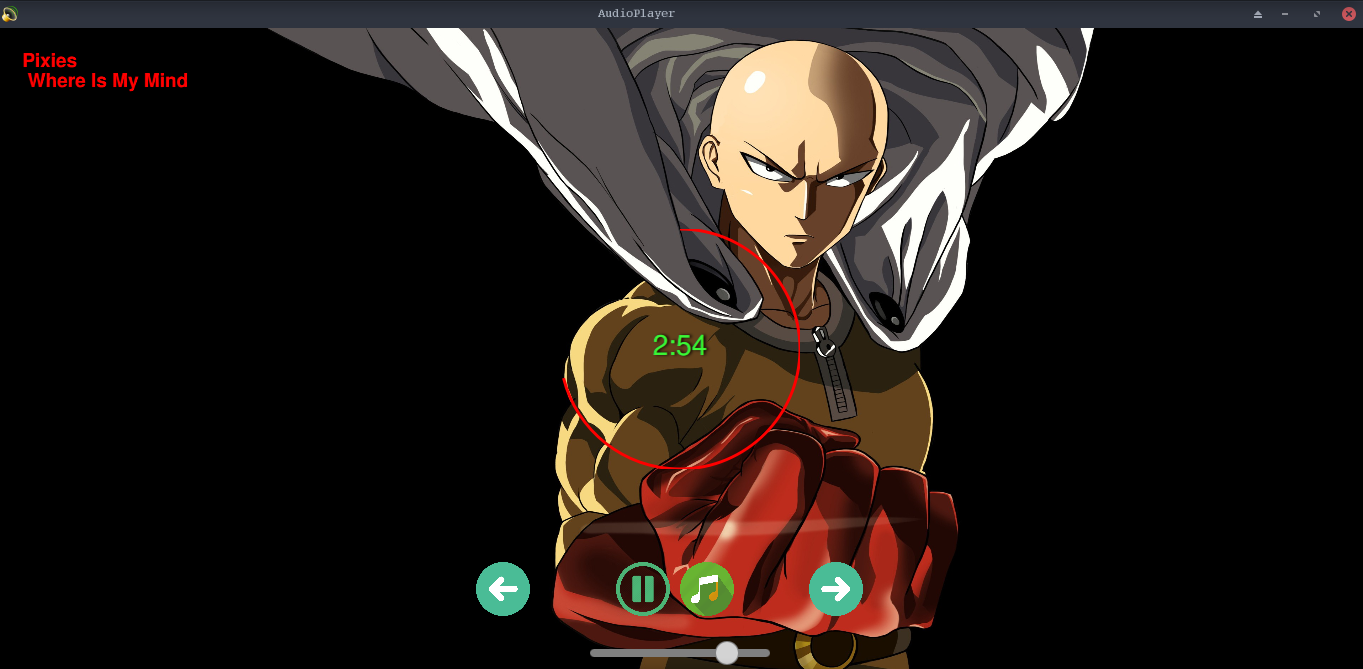
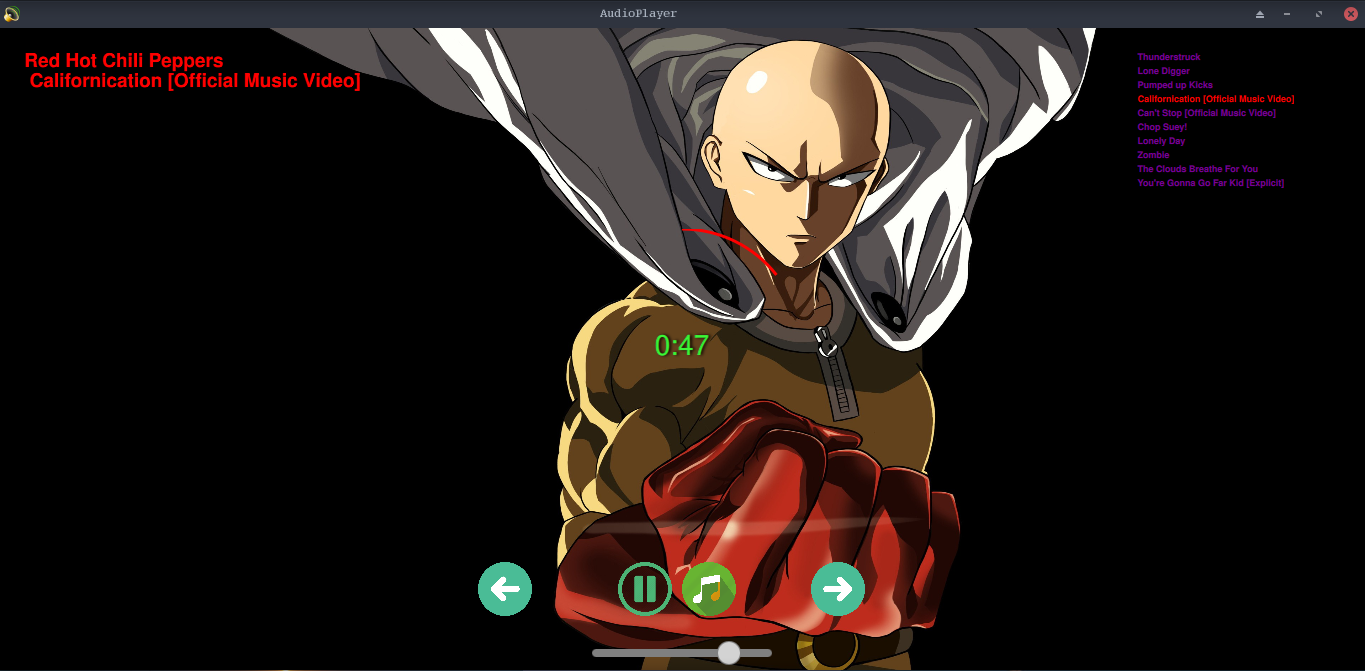
Playlist delegate

diff --git a/AudioPlayer/main.qml b/AudioPlayer/main.qml
@@ -36,7 +36,7 @@ Item{
     }
 
     Timer{
-        interval: 10000
+        interval: 15000
         running: musicPlaying
         repeat: true
         onTriggered: getNextImage()
@@ -70,6 +70,31 @@ Item{
         setAudioIndex(currentMusicIndex);
     }
 
+    function getIndexBySource(source){
+        for(var i = 0; i<playlist.itemCount; i++)
+            if(source === playlist.itemSource(i))
+                return i;
+    }
+
+   ListView{
+        id: songs
+        width: 100
+        height: 500
+        anchors.right: parent.right
+        anchors.top: parent.top
+        anchors.topMargin: 25
+        spacing: 2
+        model: playlist
+        delegate: PlaylistDelegate {
+            currentSongSource: playlist.itemSource(currentMusicIndex)
+            onClicked: {
+                var index = getIndexBySource(source)
+                setAudioIndex(index)
+                currentMusicIndex = index
+            }
+        }
+   }
+
     MediaPlayer{
         id: mediaPlayer
         autoLoad: true
@@ -87,7 +112,7 @@ Item{
         }
 
         onPlaying: {
-            (!musicPlaying)
+            if(!musicPlaying)
                 musicPlaying = true
         }
     }
@@ -128,7 +153,7 @@ Item{
 
     FileDialog{
         id: fileDialog
-        title: "Set your audio"
+        title: "Add your audio"
         folder: shortcuts.music
         selectMultiple: true
         onAccepted: {

diff --git a/AudioPlayer/content/PlaylistDelegate.qml b/AudioPlayer/content/PlaylistDelegate.qml
@@ -1,0 +1,37 @@
+import QtQuick 2.0
+
+Rectangle{
+    id: delegate
+
+    property url currentSongSource
+
+    signal clicked(url currentSource)
+
+    height: 12
+    width: 200
+    anchors.right: parent.right
+    anchors.rightMargin: 30
+    color: "transparent"
+
+    function getSongName(source){
+        var lastElement = source.split("/")
+        lastElement = lastElement[lastElement.length-1]
+        var splitted = lastElement.split("-")
+        return splitted[1]
+    }
+
+    Text{
+        anchors.left: parent.left
+        font.pointSize: 7
+        font.bold: true
+        color: (currentSongSource == source) ? "red" : "#7a0099"
+        text: getSongName(source.toString())
+
+        MouseArea{
+            anchors.fill: parent
+            onClicked: {
+                delegate.clicked(source)
+            }
+        }
+    }
+}

diff --git a/AudioPlayer/PlaylistDelegate.qml b/AudioPlayer/PlaylistDelegate.qml
@@ -1,0 +1,5 @@
+import QtQuick 2.0
+
+Item {
+
+}

diff --git a/AudioPlayer/main.cpp b/AudioPlayer/main.cpp
@@ -5,7 +5,6 @@
 #include <QtGui/QOpenGLContext>
 #include <QtQml/QQmlContext>
 #include <QDir>
-#include <QDebug>
 
 int main(int argc, char *argv[])
 {
